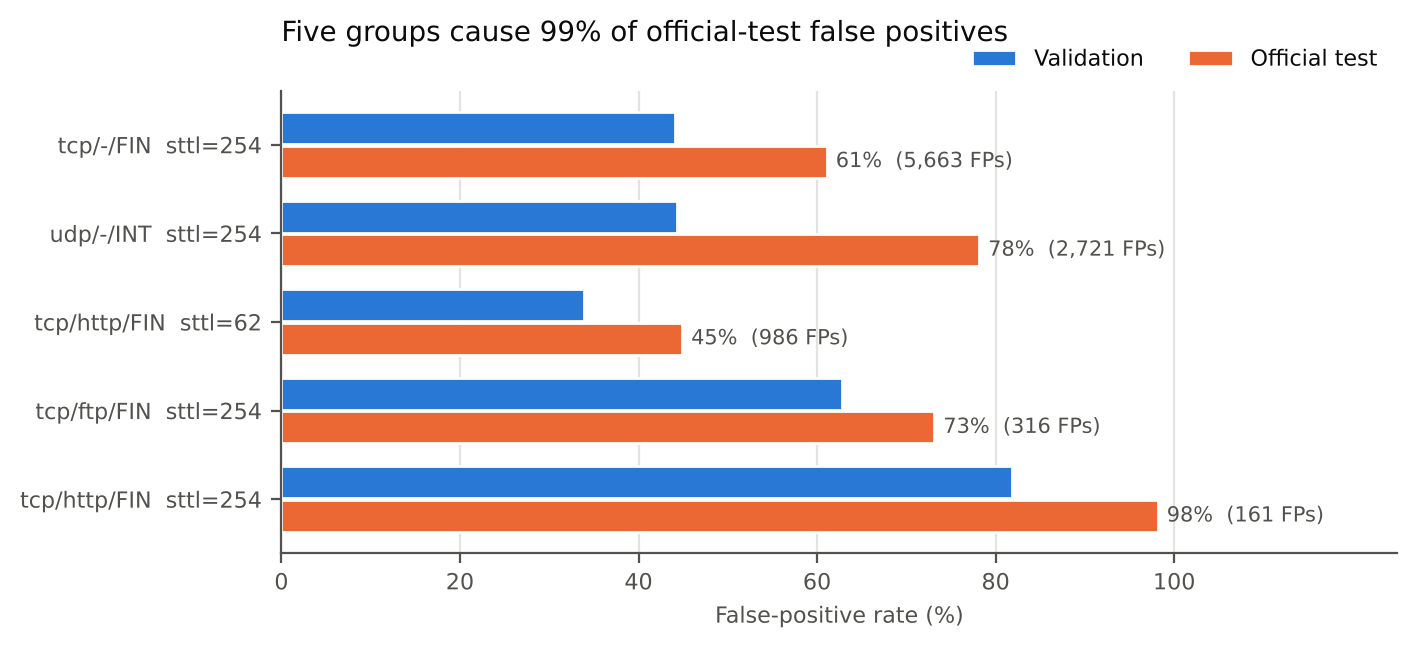
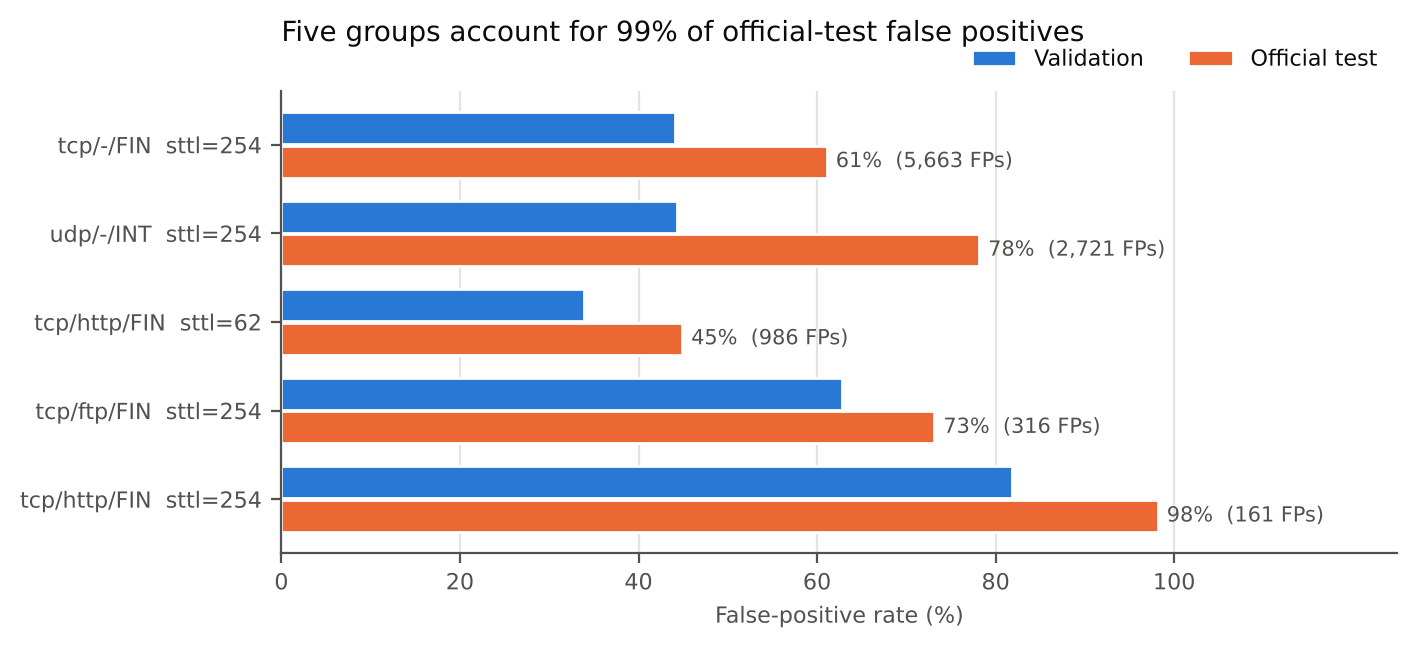
docs: correct causal wording, dataset labels and decomposition caveats
- Replace causal wording ("cause", "best explained by") with
  "account for" / "most plausibly associated with".
- Label threshold 0.60 category losses as internal evidence and add the
  official-test rates (Fuzzers 90.04%, Analysis 99.85%).
- Replace "about half" with the 53-79% descriptive sensitivity range
  across TTL-based groupings and reference weightings; not a confidence
  interval and not a causal estimate.
- Make the permutation-importance statement specific, with the
  correlated-feature caveat; add the Wilson-interval caveat.
- Update outdated planning-stage statements in README.
- Figure 3 title "cause" -> "account for"; all 10 shift-analysis
  CSV/JSON outputs regenerate byte-identically.

No numerical results changed.

Claude-Session: https://claude.ai/code/session_01VR6Z4vNjFZy68JHojATnrP

Changed region(s): [[0.3105, 0.0309, 0.7763, 0.0617]]

diff --git a/evaluation/analyze_dataset_shift.py b/evaluation/analyze_dataset_shift.py
@@ -411,7 +411,7 @@ def make_figures(data, results, totals):
     axis.set_xlabel("False-positive rate (%)", fontsize=8)
     axis.legend(frameon=False, fontsize=8, ncol=2,
                 loc="lower right", bbox_to_anchor=(1, 1.0))
-    axis.set_title(f"Five groups cause {top['test_fp'].sum() / normals(data['test'])['pred'].sum():.0%} "
+    axis.set_title(f"Five groups account for {top['test_fp'].sum() / normals(data['test'])['pred'].sum():.0%} "
                    "of official-test false positives", fontsize=10, loc="left", pad=18)
     style(axis)
     save(fig, "fig3_top_fp_groups.png")

diff --git a/docs/priority1_research_summary.md b/docs/priority1_research_summary.md
@@ -42,7 +42,7 @@ Scripts: `evaluation/analyze_false_positives.py`, `analyze_fp_categories.py`, `a
 
   All four contain both normal and attack records in training, so these categories alone can't separate the classes.
 - **Score confidence.** False positives in these groups have median attack scores of 0.63–0.73, clearly above 0.50 (`confidence_analysis.csv`).
-- **Permutation importance.** `dttl`, `sttl`, `service` and the connection-count features matter most for both recall and FPR (`feature_importance.csv`).
+- **Permutation importance** (production model on validation, 3 repeats; `feature_importance.csv`). For attack recall, `dttl`, `sttl`, `ackdat` and `ct_state_ttl` rank highest. For FPR, `service` and the connection-count features `ct_dst_src_ltm` and `ct_srv_dst` rank highest. Permutation importance is unreliable for correlated features such as the three TTL features, and high importance does not mean a feature is necessary (see section 6).
 
 ## 3. Threshold 0.60: rejected for deployment
 
@@ -61,9 +61,11 @@ Raising the threshold lowers FPR on validation, but recall falls with it (`thres
 - **Policy:** minimise FPR while keeping recall at or above 95%. It selected 0.60.
 - **Internal result:** FPR fell from 10.06% to 6.93%, but recall fell from 97.56% to 95.82%. That is **333 more missed attacks** (`threshold_internal_evaluation.csv`).
 
-**Why it was rejected:** the losses fall on the weakest categories (`threshold_attack_category_analysis.csv`):
+**Why it was rejected:** on the internal evaluation partition, the losses fall on the weakest categories (`threshold_attack_category_analysis.csv`):
 - **Fuzzers:** recall fell from 85.83% to 76.16%; 280 of the 333 extra misses are Fuzzers.
 - **Analysis:** recall fell from 90.82% to 82.95%.
+
+These category figures are internal evidence: an experimental model on a partition of `train.csv`. Threshold 0.60 was never evaluated on the official test set. There, the deployed model at 0.50 detects 90.04% of Fuzzers and 99.85% of Analysis records (`test_category_results.csv`). Fuzzers is weak on both datasets; Analysis is weak only internally.
 
 ## 4. `dttl` ablation and multi-seed robustness check: rejected
 
@@ -97,13 +99,20 @@ The production model only scored validation and the official test set here. It r
    - So the validation FPR only describes data like the training data (`numeric_shift.csv`, `fig4_numeric_shift_ks.png`).
 2. **Splitting the 17.8-point FPR gap** (`fpr_decomposition.csv`, `fig1_fpr_gap_decomposition.png`).
 
-   "Traffic mix" means more test traffic falls into groups that are already hard. "Within group" means the same group is classified worse on the test set.
+   "Traffic mix" means more test traffic falls into groups that are already hard. "Within group" means the same group is classified worse on the test set. The table uses validation rates and shares as the reference.
 
    | Grouped by | Traffic mix | Within group |
    |---|---:|---:|
    | protocol/service/state | 2.2 pp | 15.6 pp |
    | `sttl` value | **10.2 pp** | 7.6 pp |
    | combination × `sttl` | 9.5 pp | 8.3 pp |
+
+   **The split depends on the reference** (`evaluation/report_stats/fpr_gap_decomposition.csv`). The traffic-mix part ranges as follows across validation, midpoint and test references:
+   - protocol/service/state: 2.2–4.5 pp
+   - `sttl` value: 10.2–14.1 pp
+   - combination × `sttl`: 9.5–13.6 pp
+
+   The components are descriptive, not causal effects. Across the two TTL-based groupings (`sttl` value; combination × `sttl`) and the three references, the traffic-mix share of the gap is 53–79%. This is a **descriptive sensitivity range** showing how much the split depends on those analysis choices. It is **not a confidence interval** and it does **not** measure the causal contribution of TTL. The validation-reference figures in the table above, their calculations and `fig1_fpr_gap_decomposition.png` are unchanged.
 
 3. **TTL and false positives** (`ttl_analysis.csv`, `fig2_sttl_shift_and_fpr.png`).
 
@@ -113,7 +122,7 @@ The production model only scored validation and the official test set here. It r
    | `sttl=31` | 70% | 45% | 0.04% |
 
    - 90% of all training records with `sttl=254` are attacks.
-   - `sttl=254` normals cause 8,886 of the 9,904 test false positives.
+   - `sttl=254` normals account for 8,886 of the 9,904 test false positives.
 4. **Within the same TTL group, test FPR is higher than validation FPR** (`fig3_top_fp_groups.png`):
    - `tcp/-/FIN` with `sttl=254`: 44% → 61%
    - `udp/-/INT` with `sttl=254`: 44% → 78%
@@ -149,7 +158,7 @@ Script: `evaluation/experiment_ttl_free_multiseed.py`. Outputs: `evaluation/fp_a
 
 **What it shows:**
 - Removing the TTL features changed nothing measurable inside the training distribution. 99.9% of internal false positives stay in the slice, at about 39% FPR.
-- TTL **marks** the traffic group that is hard to classify. Removing it doesn't fix the errors, because other features carry the same information.
+- TTL **marks** the traffic group that is hard to classify. Removing it doesn't reduce the errors, which is consistent with other features carrying the same information.
 - Whether a TTL-free model behaves differently on the shifted official test set was not tested. It failed the pre-declared rule, and the test set is not used for selection.
 
 ## 7. Limitations
@@ -161,7 +170,8 @@ Script: `evaluation/experiment_ttl_free_multiseed.py`. Outputs: `evaluation/fp_a
 5. KS and PSI look at one feature at a time. KS p-values are left out because they are always "significant" at these sample sizes. PSI depends on how features are binned, and its 0.1/0.25 cut-offs are rules of thumb from other fields.
 6. Shift statistics show association, not cause. The explanations in section 5 are the most plausible ones, not proven mechanisms. Literature on TTL artefacts in UNSW-NB15 still has to be verified for the report.
 7. Random Forest scores are vote fractions, not calibrated probabilities of attack.
-8. Prevention is **simulated**. No real firewall enforcement takes place.
+8. Confidence intervals (`evaluation/report_stats/wilson_intervals.csv`) are Wilson intervals. They assume each record is an independent trial and ignore correlation between records and distribution shift, so they do not establish external generalisation.
+9. Prevention is **simulated**. No real firewall enforcement takes place.
 
 ## 8. Final Priority 1 decision
 
@@ -169,11 +179,11 @@ Script: `evaluation/experiment_ttl_free_multiseed.py`. Outputs: `evaluation/fp_a
 
 | Candidate | Outcome | Reason |
 |---|---|---|
-| Threshold 0.60 | Rejected | 333 more missed attacks; Fuzzers recall −9.7 pp |
+| Threshold 0.60 | Rejected | 333 more missed attacks; Fuzzers recall −9.7 pp (internal evaluation partition) |
 | Remove `dttl` | Rejected | Not robust across 5 seeds; within random variation |
 | Remove all TTL features | Rejected | No reduction in slice FPR (C1 failed) |
 
-The 26.77% official-test FPR is best explained by a difference between the training and test traffic. About half comes from more test normals having TTL values that mostly belong to attacks in training. The other half comes from normal traffic in the same groups being classified worse. Validation could not show this, because it matches the training data. This is reported as a known limitation of the model and the dataset.
+The 26.77% official-test FPR is most plausibly associated with a difference between the training and test traffic. Depending on the TTL-based grouping and the reference weighting, about 53–79% of the gap is associated with more test normals having TTL values that mostly belong to attacks in training. That range is a descriptive sensitivity range, not a confidence interval or a causal estimate. The rest is associated with normal traffic in the same groups being classified worse. Neither part is a proven cause. Validation could not show this, because it matches the training data. This is reported as a known limitation of the model and the dataset.
 
 **Possible follow-up, not started:** separate alerting from simulated blocking. Every flow above 0.50 would still alert, but only flows above a higher cut-off, chosen on internal data, would be blocked. This would need approval because it changes the prevention logic.
 

diff --git a/README.md b/README.md
@@ -40,7 +40,7 @@ The following results come from an initial inspection of our downloaded CSV file
 
 Both files have the same columns in the same order. They contain normal traffic and nine attack categories: Analysis, Backdoor, DoS, Exploits, Fuzzers, Generic, Reconnaissance, Shellcode and Worms.
 
-The repeated-row counts measure occurrences beyond the first copy of each row, comparing every column except `id`. There are also 940 distinct records shared between the training and testing files under that comparison, including the labels. These are preliminary overlap checks. Feature-only overlap and conflicting labels still need inspection before deciding how to handle duplicates during evaluation.
+The repeated-row counts measure occurrences beyond the first copy of each row, comparing every column except `id`. There are also 940 distinct records shared between the training and testing files under that comparison, including the labels. These were preliminary overlap checks. Feature-only overlap and conflicting labels were inspected afterwards; see [Preprocessing inspection and proposed approach](#preprocessing-inspection-and-proposed-approach) and [Final baseline test evaluation](#final-baseline-test-evaluation).
 
 The absence of empty cells does not establish that all values are valid. Numeric validity, infinite values and categorical placeholders still need checking. The raw files should be preserved so that cleaning decisions can be reproduced.
 
@@ -59,7 +59,7 @@ The categorical input fields are `proto`, `service` and `state`. Their values mu
 
 These prepared CSV files have no source-IP column. The simulated block list will therefore use clearly labelled demonstration identifiers, kept separate from the model inputs.
 
-Model selection will use a validation split created from the training file. The supplied test file is reserved for final evaluation. A documented policy for duplicates and overlap is required before training and evaluation proceed.
+Model selection used a grouped validation split created from the training file. The supplied test file was used for the final baseline evaluation and later for Priority 1 diagnostics, never for selecting models or thresholds. Duplicates and overlap are handled by grouped splitting and by reporting a test subset that excludes records also present in training.
 
 ## Preprocessing inspection and proposed approach
 
@@ -91,7 +91,7 @@ There are 1,302 distinct input-feature records shared across the supplied partit
 5. Select model settings and thresholds using validation data. Evaluate the final model on the official test set, reporting both full-set metrics and a separate subset excluding feature records present in the model's training data. Report subset sizes and class distributions, since exclusion changes the evaluation population.
 6. Confirm the documented meaning of `is_ftp_login` and service placeholders before changing those values. Check feature ranges against their definitions before treating unusual numeric values as errors.
 
-These are proposed decisions. No cleaned dataset, validation partition or trained model has been created by this inspection.
+Decisions 1, 2, 4 and 5 were implemented in `preprocessing/prepare.py`, `models/train.py` and `evaluation/evaluate.py`. The deduplicated training variant in decision 3 was not evaluated, and the meaning of the `is_ftp_login` values in decision 6 remains unconfirmed.
 
 ## System design
 
@@ -383,13 +383,13 @@ Priority 1 investigated the high official-test false-positive rate. The full rep
 - dataset-shift analysis across the training, validation and official test data
 
 **Alternatives that were rejected:**
-- **Threshold 0.60.** It lowered internal FPR from 10.06% to 6.93%, but missed 333 more attacks. Fuzzers recall fell from 85.83% to 76.16% and Analysis recall from 90.82% to 82.95%. It was not deployed.
+- **Threshold 0.60.** On the internal evaluation partition of the training data, it lowered FPR from 10.06% to 6.93% but missed 333 more attacks. Fuzzers recall fell from 85.83% to 76.16% and Analysis recall from 90.82% to 82.95%. It was not deployed and was never evaluated on the official test set. There, the deployed 0.50 model detects 90.04% of Fuzzers and 99.85% of Analysis records, so Analysis is weak only internally.
 - **Removing `dttl`.** FPR was lower on only 1 of 5 seeds, and on average it rose by 0.14 percentage points. This did not pass the predefined multi-seed improvement criteria.
 - **Removing all three TTL features (`sttl`, `dttl`, `ct_state_ttl`).** False positives on normal traffic with high TTL values fell on only 2 of 5 seeds, and on average rose slightly, within random-seed variation. This also did not pass the predefined criteria.
 
 **Dataset shift:**
 - The validation data is distributed like the training data: the largest KS statistic is 0.016. The official test data is not: its largest KS statistic is 0.27.
-- Test normal records more often carry TTL values that mostly belong to attacks in training. For example, records with `sttl=254` are 20% of training normals but 41% of test normals, and they produce 8,886 of the 9,904 test false positives.
+- Test normal records more often carry TTL values that mostly belong to attacks in training. For example, records with `sttl=254` are 20% of training normals but 41% of test normals, and they account for 8,886 of the 9,904 test false positives. Across two TTL-based grouping definitions and three reference weightings, about 53–79% of the FPR gap is associated with this TTL mix change ([`evaluation/report_stats/fpr_gap_decomposition.csv`](evaluation/report_stats/fpr_gap_decomposition.csv)). This is a descriptive sensitivity range, not a confidence interval, and it does not establish the causal contribution of TTL. The original decomposition figures are unchanged.
 - These TTL-related changes are **associated** with the high test false-positive rate, but they have **not** been shown to be the sole cause:
   - removing the TTL features did not reduce false positives internally
   - normal traffic within the same TTL groups is also classified worse on the test set
@@ -402,6 +402,7 @@ Figures are in [`evaluation/shift_analysis/figures/`](evaluation/shift_analysis/
 - **The evaluation data has been reused.** The validation set and internal evaluation partitions were used repeatedly during development. The official test set was inspected for the baseline evaluation and the shift diagnostics. It was never used to select models or thresholds, but it is no longer untouched.
 - **One dataset only.** All results come from UNSW-NB15, so generalisation to live or different networks is not established.
 - **Scores are not calibrated probabilities.** Random Forest attack scores are vote fractions, not calibrated probabilities of an attack.
+- **Confidence intervals are within-dataset only.** The 95% Wilson intervals in [`evaluation/report_stats/wilson_intervals.csv`](evaluation/report_stats/wilson_intervals.csv) assume independent records and ignore distribution shift. For example, the official-test FPR interval is 26.32–27.22%.
 
 Reproduce the Priority 1 experiments from the repository root:
 
@@ -409,4 +410,11 @@ Reproduce the Priority 1 experiments from the repository root:
 python -m evaluation.experiment_multiseed
 python -m evaluation.experiment_ttl_free_multiseed
 python -m evaluation.analyze_dataset_shift
+```
+
+Report statistics and figures are rebuilt from the committed result files, without loading or training any model:
+
+```powershell
+python -m evaluation.report_statistics
+python -m evaluation.report_figures
 ```
